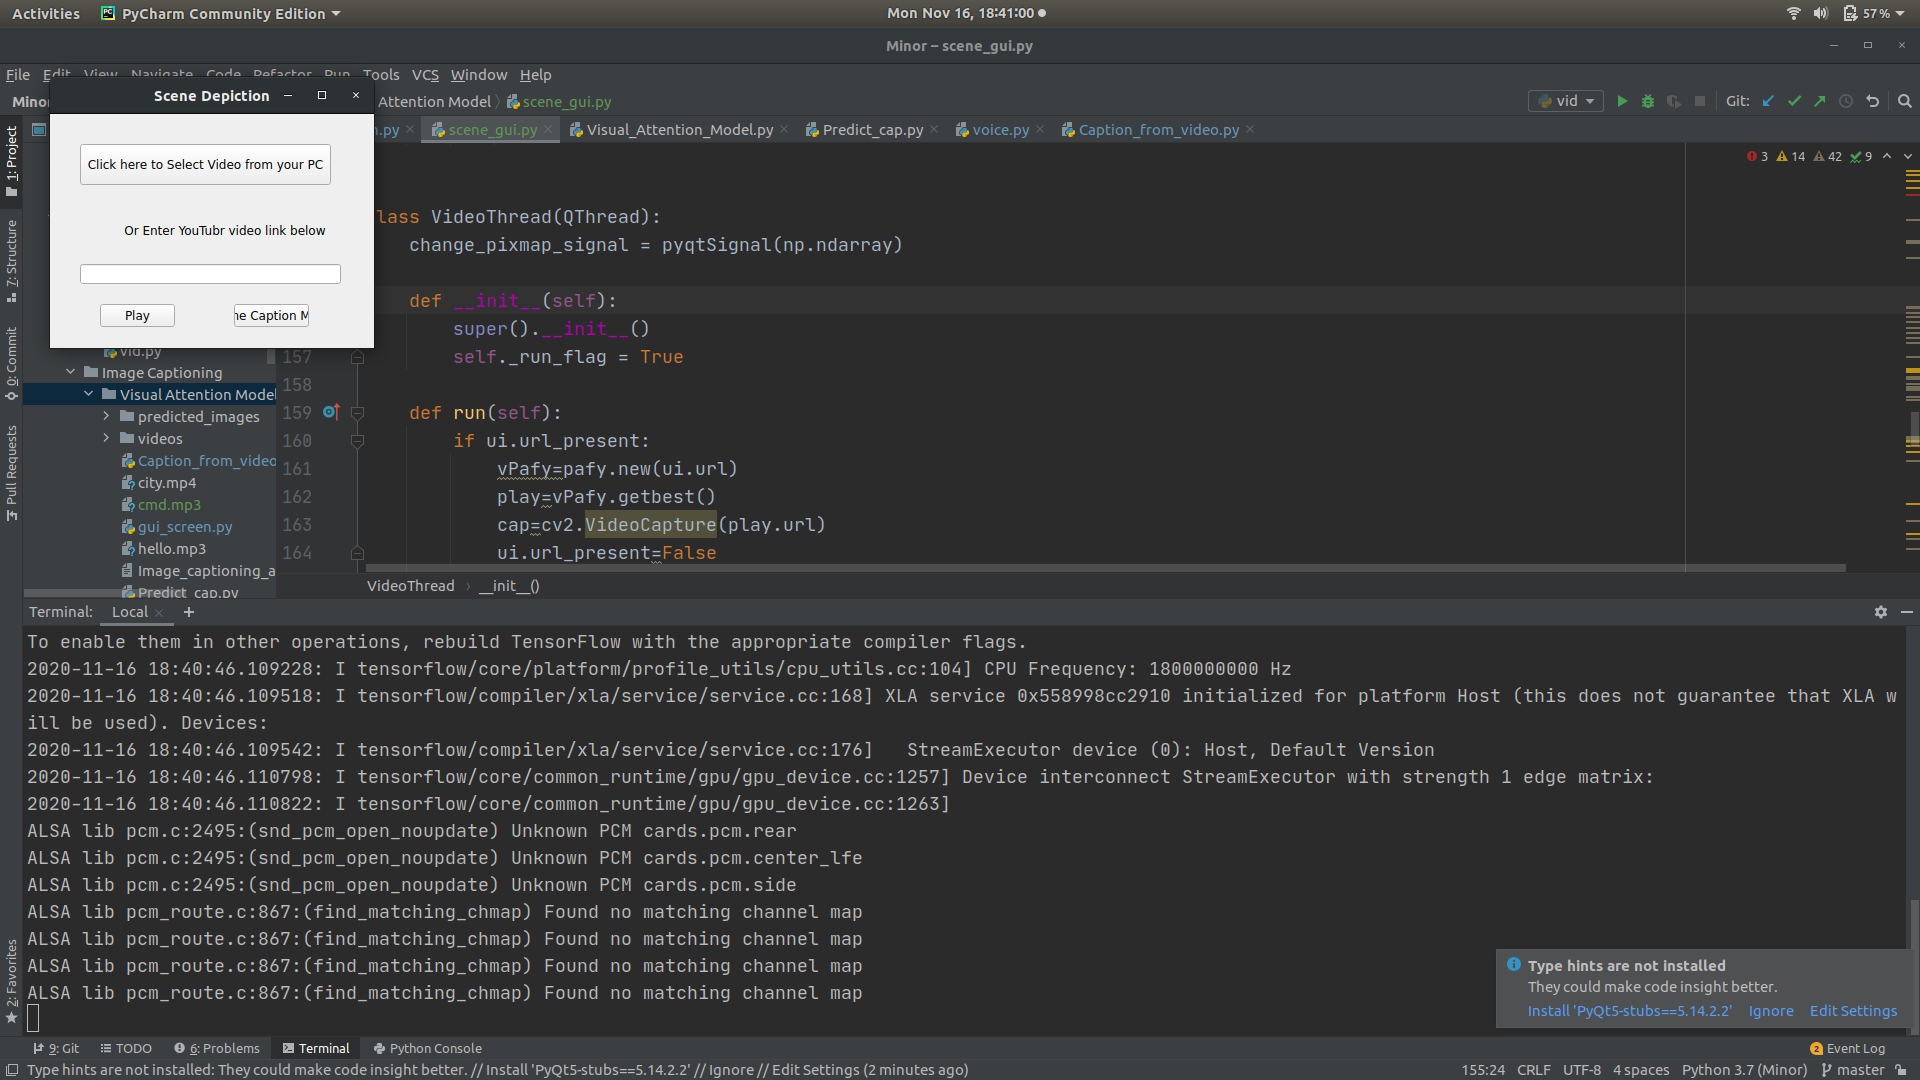
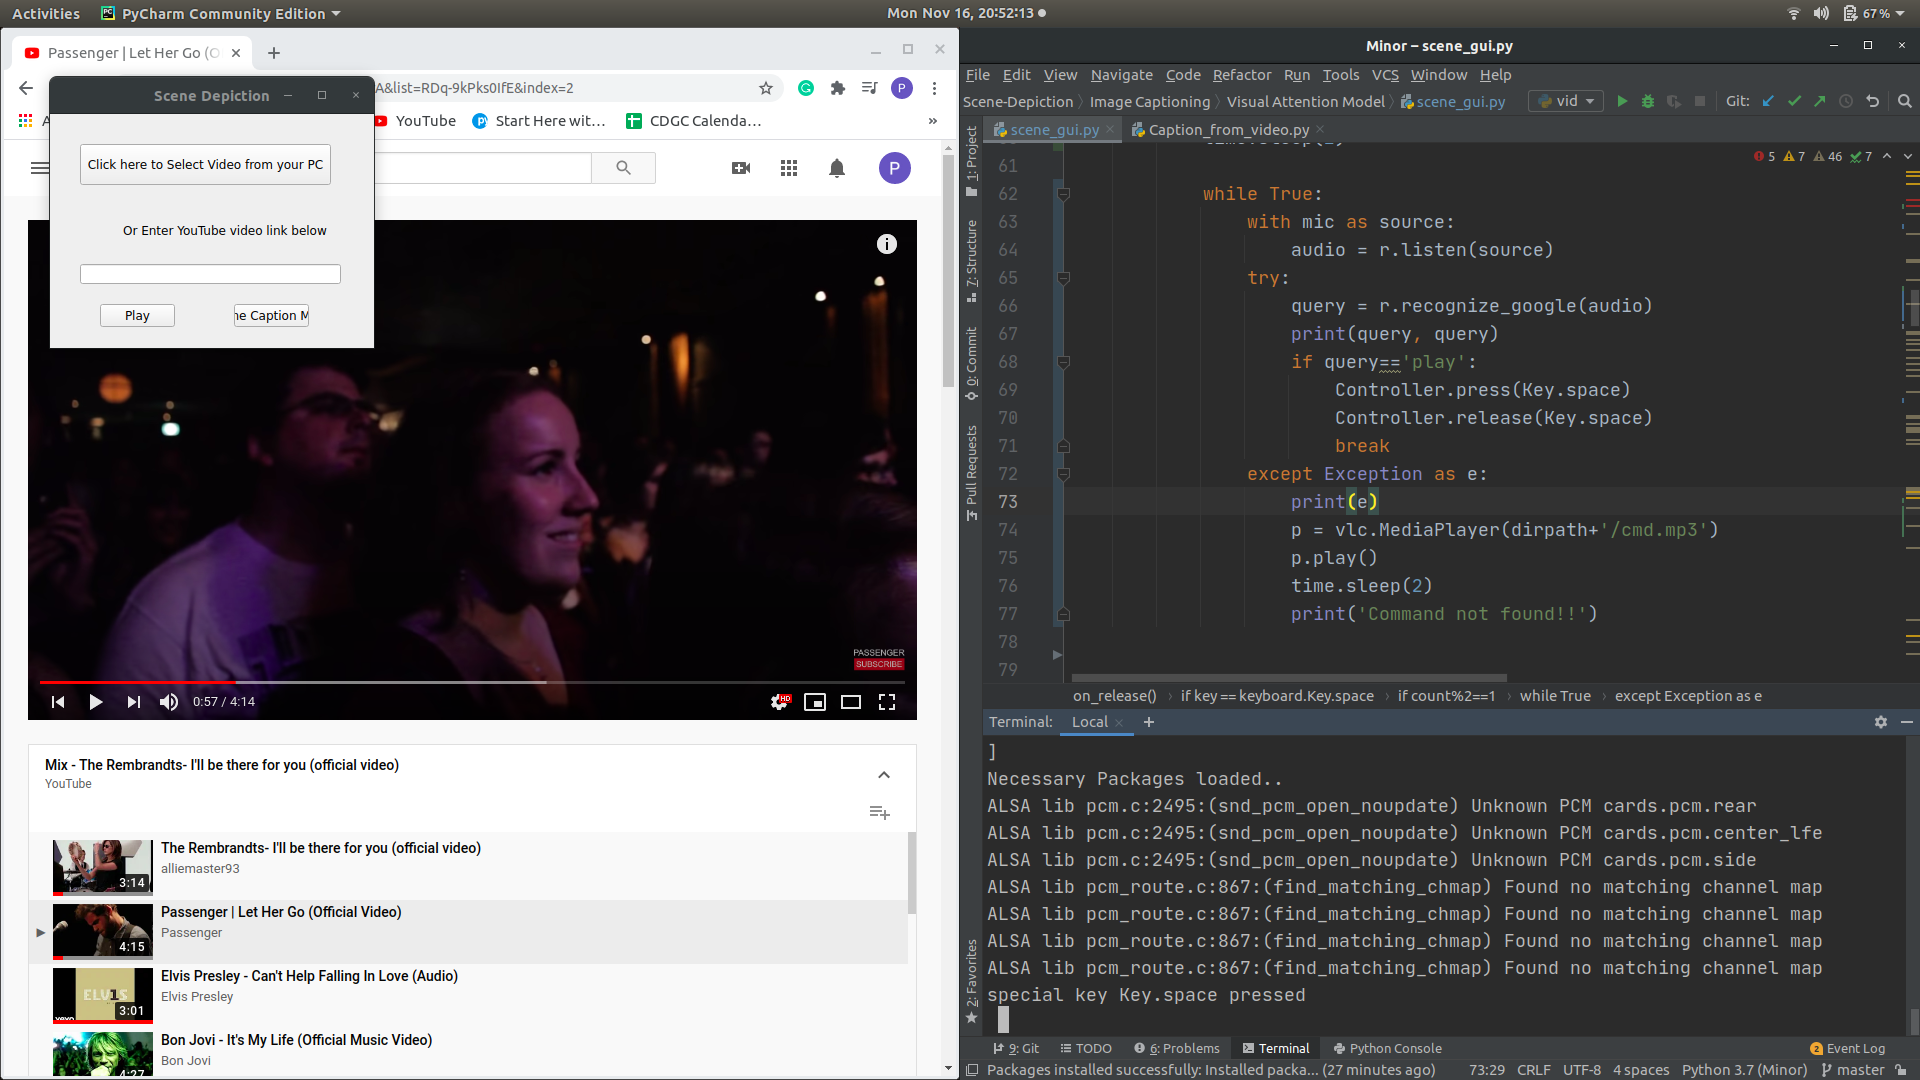
Silent videos integrated with ML model

diff --git a/Image Captioning/Visual Attention Model/scene_gui.py b/Image Captioning/Visual Attention Model/scene_gui.py
@@ -16,6 +16,8 @@ import vlc
 from Visual_Attention_Model import evaluate, plot_attention
 import time
 import os
+from Predict_cap import predict_caption
+
 
 
 r = sr.Recognizer()
@@ -24,7 +26,7 @@ mic = sr.Microphone()
 count = 0
 
 dirpath = os.path.dirname(os.path.abspath(__file__))
-command = 'Command not found please speak again'
+command = 'Command not found please speak again or try pressing space'
 file = gTTS(text=command, lang='en')
 file.save(dirpath + '/cmd.mp3')
 
@@ -47,7 +49,7 @@ def on_release(key):
             myScreenshot.save(image_path)
             result, attention_plot = evaluate(image_path)
             caption = ' '.join(result[:-1])
-            print(caption)
+            # print(caption)
             caption = caption.replace('<unknown> ', '')
             caption = caption.replace('<unknown>', '')
             print(caption)
@@ -55,28 +57,25 @@ def on_release(key):
             file.save('hello.mp3')
             p = vlc.MediaPlayer('hello.mp3')
             p.play()
+            time.sleep(2)
 
-            # time.sleep(3)
-        # with Listener(
-        #         on_press=on_press_play,
-        #         on_release=on_release_play) as cmd_listener:
-        #     cmd_listener.join()
+            # while True:
+            #     with mic as source:
+            #         audio = r.listen(source)
+            #     try:
+            #         query = r.recognize_google(audio)
+            #         print(query, query)
+            #         if query=='play':
+            #             Controller.press(Key.space)
+            #             Controller.release(Key.space)
+            #             break
+            #     except Exception as e:
+            #         print(e)
+            #         p = vlc.MediaPlayer(dirpath+'/cmd.mp3')
+            #         p.play()
+            #         time.sleep(2)
+            #         print('Command not found!!')
 
-        # while True:
-        #     with mic as source:
-        #         audio = r.listen(source)
-        #     try:
-        #         query = r.recognize_google(audio)
-        #         print(query)
-        #         if query!='' and query=='play':
-        #             keyboard.press(Key.space)
-        #             keyboard.release(Key.space)
-        #             break
-        #     except Exception as e:
-        #         p = vlc.MediaPlayer(dirpath+'/cmd.mp3')
-        #         p.play()
-        #         time.sleep(2)
-        #         print('Command not found!!')
 
 
 
@@ -114,7 +113,7 @@ class Ui_MainWindow(object):
         _translate = QtCore.QCoreApplication.translate
         MainWindow.setWindowTitle(_translate("MainWindow", "Scene Depiction"))
         self.file_select_button.setText(_translate("MainWindow", "Click here to Select Video from your PC"))
-        self.text_label_1.setText(_translate("MainWindow", "Or Enter YouTubr video link below"))
+        self.text_label_1.setText(_translate("MainWindow", "Or Enter YouTube video link below"))
         self.play_button.setText(_translate("MainWindow", "Play"))
         self.help_button.setText(_translate("MainWindow", "Scene Caption Mode"))
         self.file_select_button.clicked.connect(self.file_select_handler)
@@ -164,10 +163,26 @@ class VideoThread(QThread):
             ui.url_present=False
         else:
             cap = cv2.VideoCapture(ui.path)
+        frame_no = 0
         while self._run_flag:
             ret, cv_img = cap.read()
             if ret:
+                frame_no+=1
                 self.change_pixmap_signal.emit(cv_img)
+                if frame_no == 50:
+                    caption = predict_caption(cv_img)
+                    print(caption)
+                    caption = caption.replace('<unknown> ', '')
+                    caption = caption.replace('<unknown>', '')
+                    print(caption)
+                    # sleep(3)
+                    file = gTTS(text=caption, lang='en')
+                    file.save('hello.mp3')
+                    p = vlc.MediaPlayer('hello.mp3')
+                    p.play()
+                    time.sleep(2)
+                    frame_no = 0
+
                 time.sleep(0.033)
         cap.release()
 
